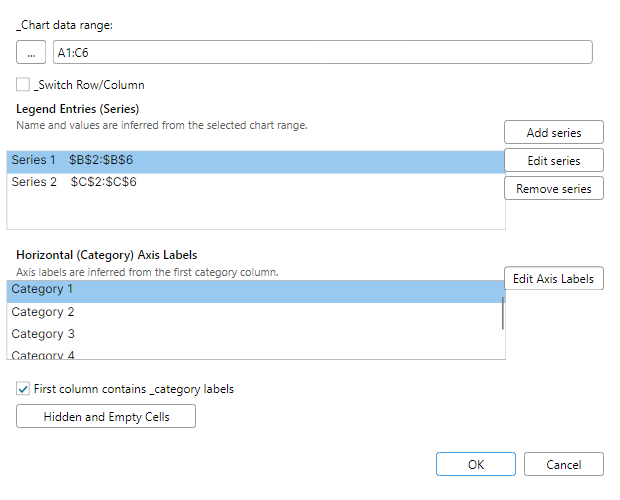
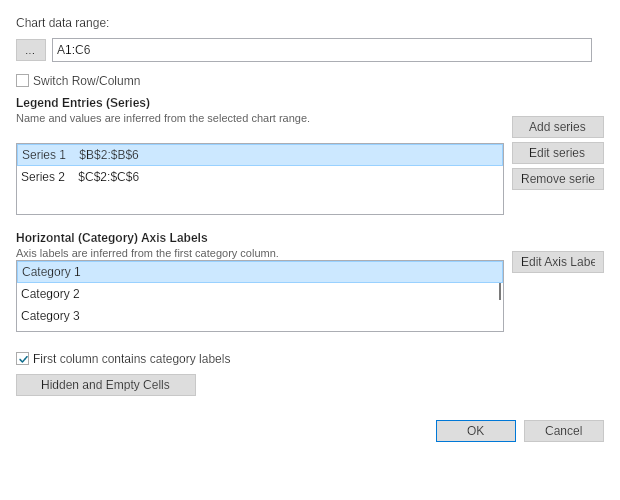
FreeX: align Avalonia select data source dialog

diff --git a/src/FreeX.App.Avalonia/MainWindow.ChartTabs.cs b/src/FreeX.App.Avalonia/MainWindow.ChartTabs.cs
@@ -9,6 +9,7 @@ using Avalonia.Data.Converters;
 using Avalonia.Layout;
 using Avalonia.Media;
 
+using Free.Shared.Shell.Avalonia;
 using FreeX.App.Presentation.Charts.Editing;
 using FreeX.App.Presentation.Charts;
 using FreeX.App.Services;
@@ -335,6 +336,16 @@ public sealed partial class MainWindow
 
     // ---- Chart Design: Select Data Source (real, ChangeChartSourceCommand) ----------------------------
 
+    private static AvaloniaCompactDialogChromeStyle SelectDataSourceDialogChromeStyle =>
+        ChartDialogChromeStyle with
+        {
+            ControlHeight = 22,
+            TextBoxHeight = 22,
+            ButtonHeight = 22,
+            ButtonPadding = new Thickness(8, 1),
+            ListBoxItemMinHeight = 22,
+        };
+
     private async Task ShowSelectChartDataDialog()
     {
         if (_isOpening || _isSaving || !TryCommitPendingFormulaEdit())
@@ -408,15 +419,14 @@ public sealed partial class MainWindow
         };
 
         // ---- Switch Row/Column checkbox -------------------------------------------------------
-        var switchRowColumnCheck = CreateChartCheckBox(UiText.Get(switchField.LabelResourceKey), switchRowColumn);
+        var switchRowColumnCheck = CreateChartCheckBox(StripDisplayMnemonic(UiText.Get(switchField.LabelResourceKey)), switchRowColumn);
         switchRowColumnCheck.Margin = new Thickness(0, 4, 0, 0);
         AutomationProperties.SetAutomationId(switchRowColumnCheck, switchField.AutomationId);
 
         // ---- Series ListBox + buttons ---------------------------------------------------------
         var seriesList = new ListBox
         {
-            Height = 80,
-            Width = 500,
+            Height = 72,
             SelectionMode = SelectionMode.Single,
         };
         AutomationProperties.SetName(seriesList, UiText.Get(seriesPanel.ListField.AutomationNameResourceKey!));
@@ -424,24 +434,23 @@ public sealed partial class MainWindow
         AutomationProperties.SetHelpText(seriesList, UiText.Get(seriesPanel.ListField.HelpResourceKey!));
 
         var addSeriesAction = seriesPanel.Actions.Single(action => action.Id == SelectDataSourceDialogActionId.AddSeries);
-        var addSeriesButton = CreateChartButton(UiText.Get(addSeriesAction.LabelResourceKey), 100);
+        var addSeriesButton = CreateChartButton(UiText.Get(addSeriesAction.LabelResourceKey), 92);
         AutomationProperties.SetAutomationId(addSeriesButton, addSeriesAction.AutomationId);
 
         var editSeriesAction = seriesPanel.Actions.Single(action => action.Id == SelectDataSourceDialogActionId.EditSeries);
-        var editSeriesButton = CreateChartButton(UiText.Get(editSeriesAction.LabelResourceKey), 100);
+        var editSeriesButton = CreateChartButton(UiText.Get(editSeriesAction.LabelResourceKey), 92);
         editSeriesButton.IsEnabled = false;
         AutomationProperties.SetAutomationId(editSeriesButton, editSeriesAction.AutomationId);
 
         var removeSeriesAction = seriesPanel.Actions.Single(action => action.Id == SelectDataSourceDialogActionId.RemoveSeries);
-        var removeSeriesButton = CreateChartButton(UiText.Get(removeSeriesAction.LabelResourceKey), 100);
+        var removeSeriesButton = CreateChartButton(UiText.Get(removeSeriesAction.LabelResourceKey), 92);
         removeSeriesButton.IsEnabled = false;
         AutomationProperties.SetAutomationId(removeSeriesButton, removeSeriesAction.AutomationId);
 
         // ---- Axis Labels ListBox + button -----------------------------------------------------
         var axisLabelsList = new ListBox
         {
-            Height = 80,
-            Width = 500,
+            Height = 72,
             SelectionMode = SelectionMode.Single,
         };
         AutomationProperties.SetName(axisLabelsList, UiText.Get(axisLabelsPanel.ListField.AutomationNameResourceKey!));
@@ -449,12 +458,12 @@ public sealed partial class MainWindow
         AutomationProperties.SetHelpText(axisLabelsList, UiText.Get(axisLabelsPanel.ListField.HelpResourceKey!));
 
         var editAxisLabelsAction = axisLabelsPanel.Actions.Single(action => action.Id == SelectDataSourceDialogActionId.EditAxisLabels);
-        var editAxisLabelsButton = CreateChartButton(UiText.Get(editAxisLabelsAction.LabelResourceKey), 100);
+        var editAxisLabelsButton = CreateChartButton(UiText.Get(editAxisLabelsAction.LabelResourceKey), 92);
         editAxisLabelsButton.IsEnabled = false;
         AutomationProperties.SetAutomationId(editAxisLabelsButton, editAxisLabelsAction.AutomationId);
 
         // ---- First column contains category labels checkbox -----------------------------------
-        var categoriesCheck = CreateChartCheckBox(UiText.Get(firstColumnField.LabelResourceKey), firstColumnIsCategories);
+        var categoriesCheck = CreateChartCheckBox(StripDisplayMnemonic(UiText.Get(firstColumnField.LabelResourceKey)), firstColumnIsCategories);
         categoriesCheck.Margin = new Thickness(0, 4, 0, 0);
         AutomationProperties.SetAutomationId(categoriesCheck, firstColumnField.AutomationId);
 
@@ -555,6 +564,7 @@ public sealed partial class MainWindow
         var dialog = NewChartDialog(
             UiText.Get(SelectDataSourcePlanner.DialogTitleResourceKey),
             SelectDataSourcePlanner.DialogAutomationId);
+        AvaloniaCompactDialogChrome.ApplyWindow(dialog, SelectDataSourceDialogChromeStyle);
         dialog.SizeToContent = SizeToContent.Manual;
         dialog.Width = 620;
         dialog.Height = 500;
@@ -647,7 +657,7 @@ public sealed partial class MainWindow
             Children =
             {
                 // Range label + ("...") picker button + text box
-                new TextBlock { Text = UiText.Get(rangeField.LabelResourceKey), FontSize = 12, FontFamily = FormulaBarFontFamily },
+                new TextBlock { Text = StripDisplayMnemonic(UiText.Get(rangeField.LabelResourceKey)), FontSize = 12, FontFamily = FormulaBarFontFamily },
                 rangeRow,
                 switchRowColumnCheck,
                 // Legend Entries (Series) panel

diff --git a/tests/FreeX.App.Avalonia.Tests/AvaloniaMainWindowChromeSourceTests.cs b/tests/FreeX.App.Avalonia.Tests/AvaloniaMainWindowChromeSourceTests.cs
@@ -211,6 +211,28 @@ public sealed class AvaloniaMainWindowChromeSourceTests
     }
 
     [Fact]
+    public void SelectChartDataDialog_UsesScopedWpfChromeAndInnerWidthMetrics()
+    {
+        var chartTabsSource = File.ReadAllText(RepoFile("src", "FreeX.App.Avalonia", "MainWindow.ChartTabs.cs"));
+
+        chartTabsSource.Should().Contain("private static AvaloniaCompactDialogChromeStyle SelectDataSourceDialogChromeStyle");
+        chartTabsSource.Should().Contain("ControlHeight = 22");
+        chartTabsSource.Should().Contain("TextBoxHeight = 22");
+        chartTabsSource.Should().Contain("ButtonHeight = 22");
+        chartTabsSource.Should().Contain("ListBoxItemMinHeight = 22");
+        chartTabsSource.Should().Contain("AvaloniaCompactDialogChrome.ApplyWindow(dialog, SelectDataSourceDialogChromeStyle);");
+        chartTabsSource.Should().Contain("Height = 72,");
+        chartTabsSource.Should().Contain("CreateChartButton(UiText.Get(addSeriesAction.LabelResourceKey), 92)");
+        chartTabsSource.Should().Contain("CreateChartButton(UiText.Get(editSeriesAction.LabelResourceKey), 92)");
+        chartTabsSource.Should().Contain("CreateChartButton(UiText.Get(removeSeriesAction.LabelResourceKey), 92)");
+        chartTabsSource.Should().Contain("CreateChartButton(UiText.Get(editAxisLabelsAction.LabelResourceKey), 92)");
+        chartTabsSource.Should().NotContain("Width = 500,");
+        chartTabsSource.Should().Contain("StripDisplayMnemonic(UiText.Get(rangeField.LabelResourceKey))");
+        chartTabsSource.Should().Contain("StripDisplayMnemonic(UiText.Get(switchField.LabelResourceKey))");
+        chartTabsSource.Should().Contain("StripDisplayMnemonic(UiText.Get(firstColumnField.LabelResourceKey))");
+    }
+
+    [Fact]
     public void ChartWorkflowDialogs_UseSharedResidualDescriptors()
     {
         var chartTabsSource = File.ReadAllText(RepoFile("src", "FreeX.App.Avalonia", "MainWindow.ChartTabs.cs"));

diff --git a/docs/parity/avalonia-parity-wave137-freex-select-data-source-20260804.md b/docs/parity/avalonia-parity-wave137-freex-select-data-source-20260804.md
@@ -1,0 +1,63 @@
+# Avalonia/WPF Parity Wave 137: FreeX Select Data Source
+
+Date: 2026-08-04
+
+## Scope
+
+The highest current FreeX Avalonia paired dialog outlier was
+`dialog.SelectDataSource`. The committed WPF PNG remains the authority for
+this pass because the Windows host can intermittently emit blank fresh
+RenderTargetBitmap frames. No fresh WPF frame was promoted or used as a
+replacement authority.
+
+The strongest app-owned mismatch was the Avalonia dialog's content
+registration: explicit 500 px lists plus 100 px side buttons overflowed the
+588 px inner content area, while the WPF authority uses a star-sized list,
+92 px side buttons, and 72 px list heights. The Avalonia route also retained
+visible mnemonic underscores and did not opt this dialog into the existing
+shared WPF-like window/text-rendering chrome.
+
+## Change
+
+- Added a FreeX-dialog-specific `AvaloniaCompactDialogChromeStyle` override:
+  22 px controls, 22 px text boxes/buttons, 22 px list-item minimum height,
+  and compact button padding.
+- Applied the existing `AvaloniaCompactDialogChrome.ApplyWindow` only to
+  Select Data Source, preserving shared helper defaults and all existing
+  keyboard/accessibility wiring.
+- Removed fixed list widths so the two list panels use the available star
+  column; matched the WPF 72 px list heights and 92 px side actions.
+- Stripped display-only mnemonic markers from the visible range and checkbox
+  labels. Automation IDs, planner calls, event handlers, and result behavior
+  are unchanged.
+
+## Evidence and metrics
+
+The fresh current-source Avalonia capture was produced in Ubuntu 24.04
+Docker/Xvfb at the exact 620x500 logical target. The committed WPF authority
+is 930x750 pixels at approximately 144 DPI, equivalent to 620x500 logical
+pixels. Lower is better:
+
+| Pair | Triage | Sample mean | Luma delta | Non-background delta |
+| --- | ---: | ---: | ---: | ---: |
+| Existing canonical pair | 0.075491 | 0.036019 | 0.005998 | 0.033371 |
+| Wave 137 fresh Avalonia | **0.028971** | **0.025350** | **0.001976** | **0.001542** |
+
+The capture passed `app_exit=0`, `capture_validated=true`, nonblank PNG
+validation, and exact 620x500 dimensions. The improved PNG and manifest row
+were promoted under `docs/parity/dialog-visual-assets/avalonia-capture/`.
+The global dialog summary and cross-app dashboard were intentionally left for
+integration.
+
+## Verification
+
+- `dotnet test tests/FreeX.App.Avalonia.Tests/FreeX.App.Avalonia.Tests.csproj --configuration Release --no-restore --filter "FullyQualifiedName~SelectChartDataDialog_UsesScopedWpfChromeAndInnerWidthMetrics|FullyQualifiedName~SelectChartDataDialog_UsesSharedSelectDataSourcePlanner" --logger "console;verbosity=minimal" --disable-build-servers -p:UseSharedCompilation=false -p:NodeReuse=false /nr:false -m:1` - 2 passed.
+- `powershell.exe -NoProfile -ExecutionPolicy Bypass -File .\tools\Run-LinuxParityCapture.ps1 -OutputDir artifacts\wave137-freex-select-data-source-after -PublishDir artifacts\wave137-freex-select-data-source-after\publish -SurfaceId dialog.SelectDataSource -Width 620 -Height 500 -TimeoutSeconds 180 -ContainerName freex-wave137-select-data-source-after` - passed.
+- `powershell.exe -NoProfile -ExecutionPolicy Bypass -File .\tools\Generate-DialogVisualEvidenceSummary.ps1 -MarkdownPath artifacts\wave137-freex-select-data-source-after\summary.md -JsonPath artifacts\wave137-freex-select-data-source-after\summary.json -WpfManifestPath docs\parity\dialog-visual-assets\wpf-capture\manifest.json -AvaloniaManifestPath artifacts\wave137-freex-select-data-source-after\manifest.json` - focused pair passed nonblank and expected-size gates.
+
+## Residual limitations
+
+The pair still includes expected cross-toolkit glyph rasterization and native
+control rendering differences. This note records the focused pair only; the
+repository-wide dialog summary and cross-app dashboard require the integration
+owner to regenerate them.
